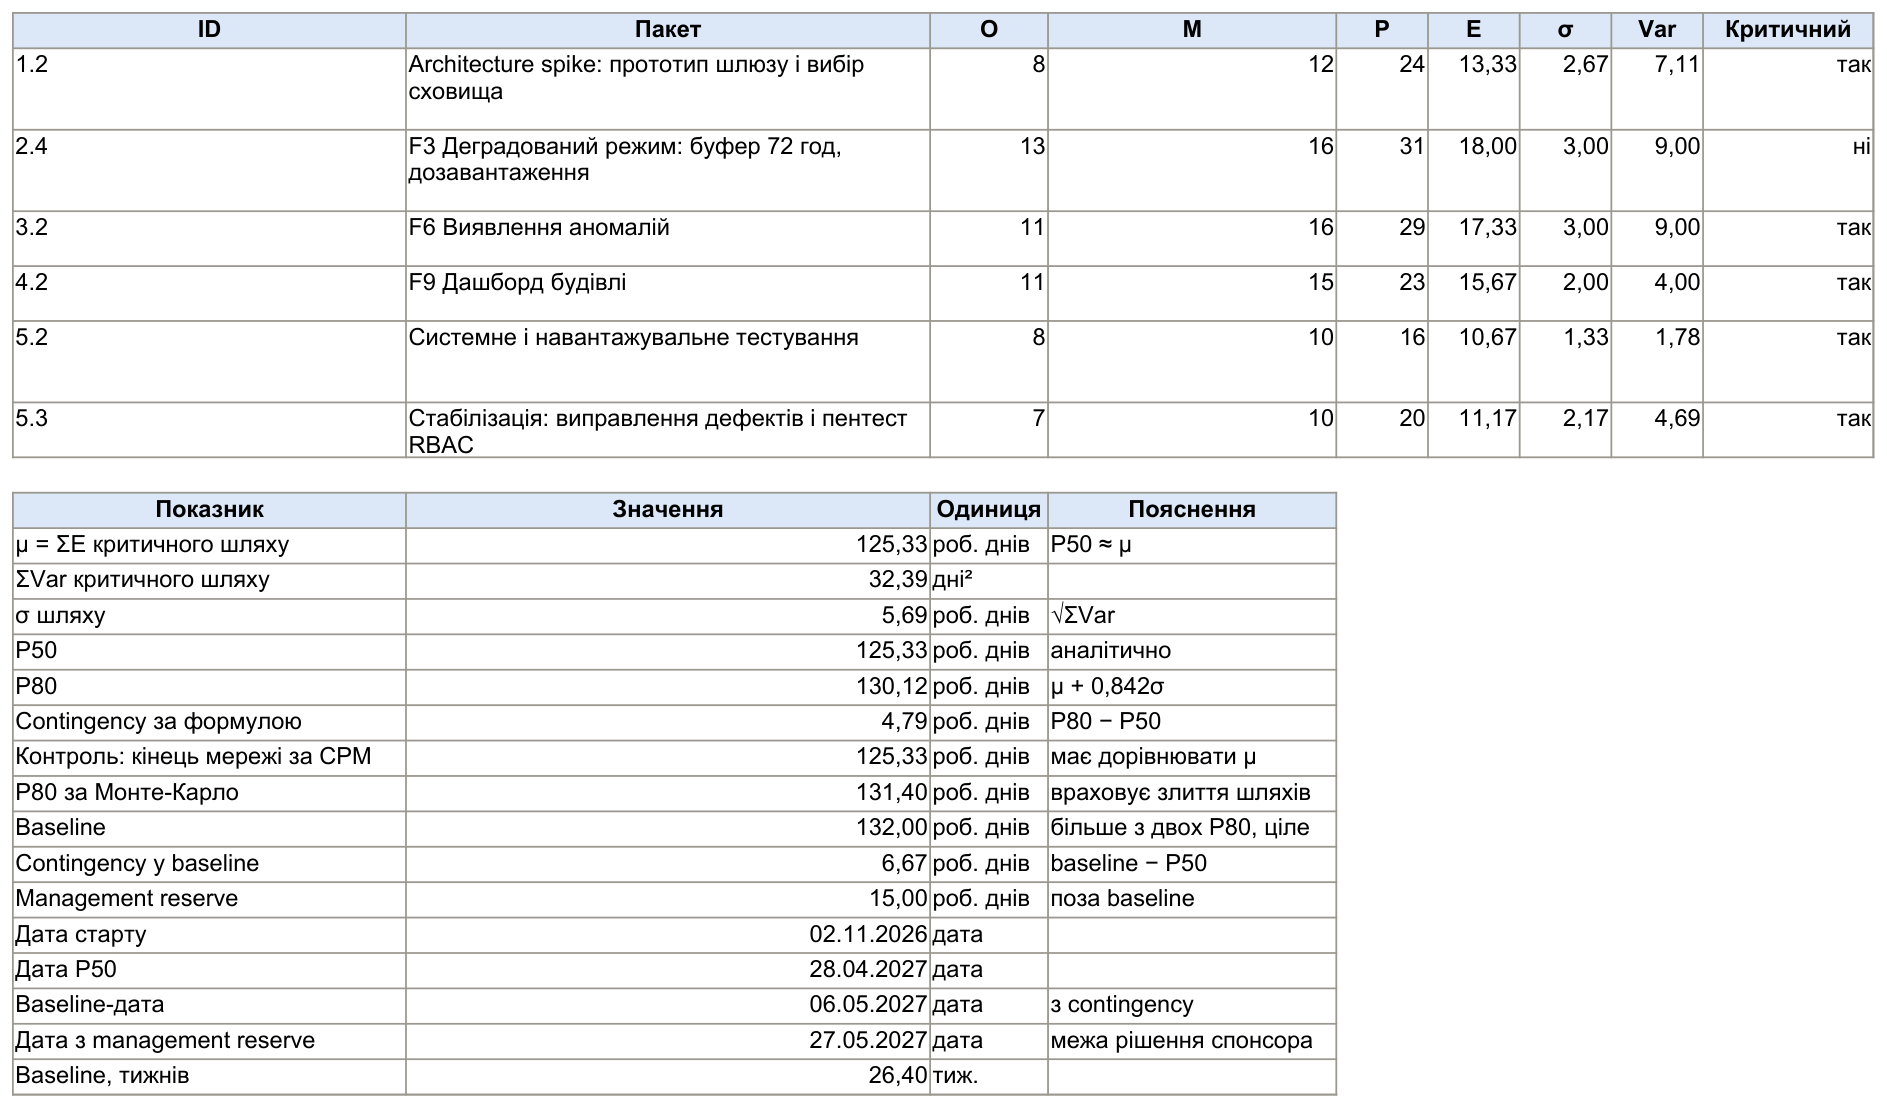
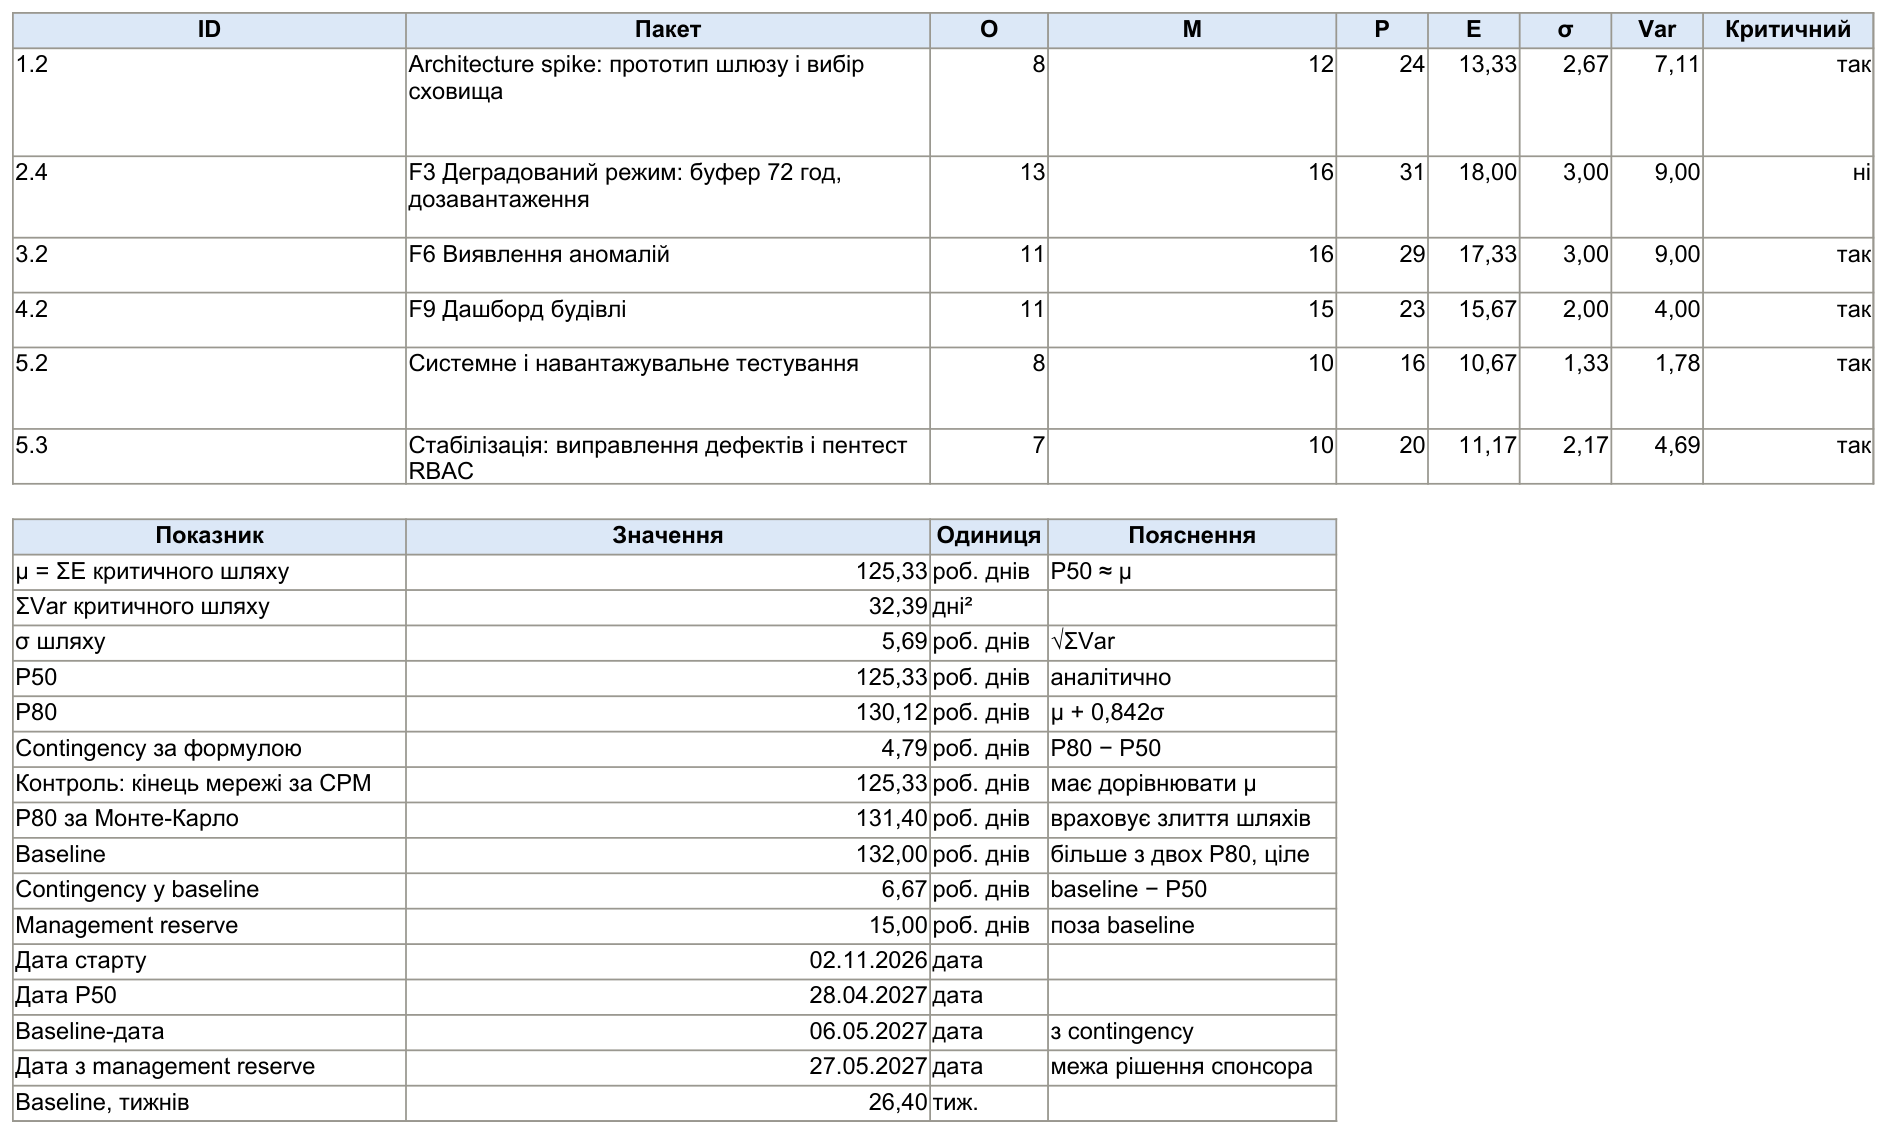
Lab 2 review fixes: package 1.2 and 3.2 P notes match appendix, partial A5 check before start, workbook start note

diff --git a/econ_model.py b/econ_model.py
@@ -475,7 +475,7 @@ WBS = [
     Package("1.2", "Architecture spike: прототип шлюзу і вибір сховища",
             "прототип зчитав 3 типи лічильників по Modbus RTU/TCP; ADR щодо БД часових рядів; тест приймання 30 × 96 записів на добу",
             {"BA": 8, "D1": 64, "D2": 56, "QA": 12, "OPS": 24}, (("1.1", "FS", 0),), 8, 12, 24, "F2, F3, NFR1",
-            "ключова невизначеність варіанта: карта регістрів Modbus надходить від постачальника лічильників (A12), частина лічильників відповідає нестабільно; у P закладено 2 ітерації очікування по 5 робочих днів"),
+            "ключова невизначеність варіанта: карта регістрів Modbus надходить від постачальника лічильників (A12), частина лічильників відповідає нестабільно; у P закладено 2 ітерації очікування по 5 днів і 2 дні повторного тесту зчитування"),
     Package("1.3", "Інфраструктура: IaC, CI/CD, середовища, моніторинг",
             "середовища dev, stage, prod створюються з коду; конвеєр CI/CD до 15 хв; моніторинг і резервні копії (NFR3)",
             {"OPS": 52, "QA": 4}, (("1.2", "FS", 0),), 18, 25, 35, "NFR3",
@@ -500,7 +500,7 @@ WBS = [
     Package("3.2", "F6 Виявлення аномалій",
             "на розмічених історичних даних precision не менше 0,8, recall не менше 0,7",
             {"D2": 88, "BA": 20, "QA": 24, "OPS": 2}, (("3.1", "FS", 0),), 11, 16, 29, "F6",
-            "поріг max(3σ; 10%) може потребувати 2...3 циклів налаштування на розмічених даних (A7)"),
+            "поріг max(3σ; 10%) може потребувати 3 додаткових циклів налаштування на розмічених даних (A7)"),
     Package("3.3", "F7 Сповіщення і ескалація",
             "95% сповіщень надіслано до 2 хв після фіксації аномалії; ескалація SMS після 30 хв без підтвердження",
             {"D2": 50, "QA": 14, "BA": 4, "OPS": 4}, (("3.2", "FS", 0),), 7, 9, 13, "F7"),

diff --git a/lab2/build_lab2.py b/lab2/build_lab2.py
@@ -52,7 +52,7 @@ def sheet_params(wb):
     ws.title = "Параметри ЛР2"
     ws.append(["Ім'я", "Показник", "Значення", "Одиниця", "Тип", "Пояснення"])
     rows = [
-        ("p2_start", "Дата старту проєкту", iso(m.PROJECT_START), "дата", "П", "після тестів A1, A2, A5 з ЛР № 1"),
+        ("p2_start", "Дата старту проєкту", iso(m.PROJECT_START), "дата", "П", "після тестів A1, A2 і часткової перевірки A5 з ЛР № 1"),
         ("p2_hours", "Годин у робочому дні", m.HOURS_DAY, "год", "П", "повний робочий день"),
         ("p2_focus", "Частка продуктивного часу", m.FOCUS, "частка", "П", "30% наради, церемонії, комунікація; 3,75 FTE × 40 × 0,7 = 105"),
         ("p2_days_week", "Робочих днів на тиждень", m.DAYS_WEEK, "днів", "П", ""),
